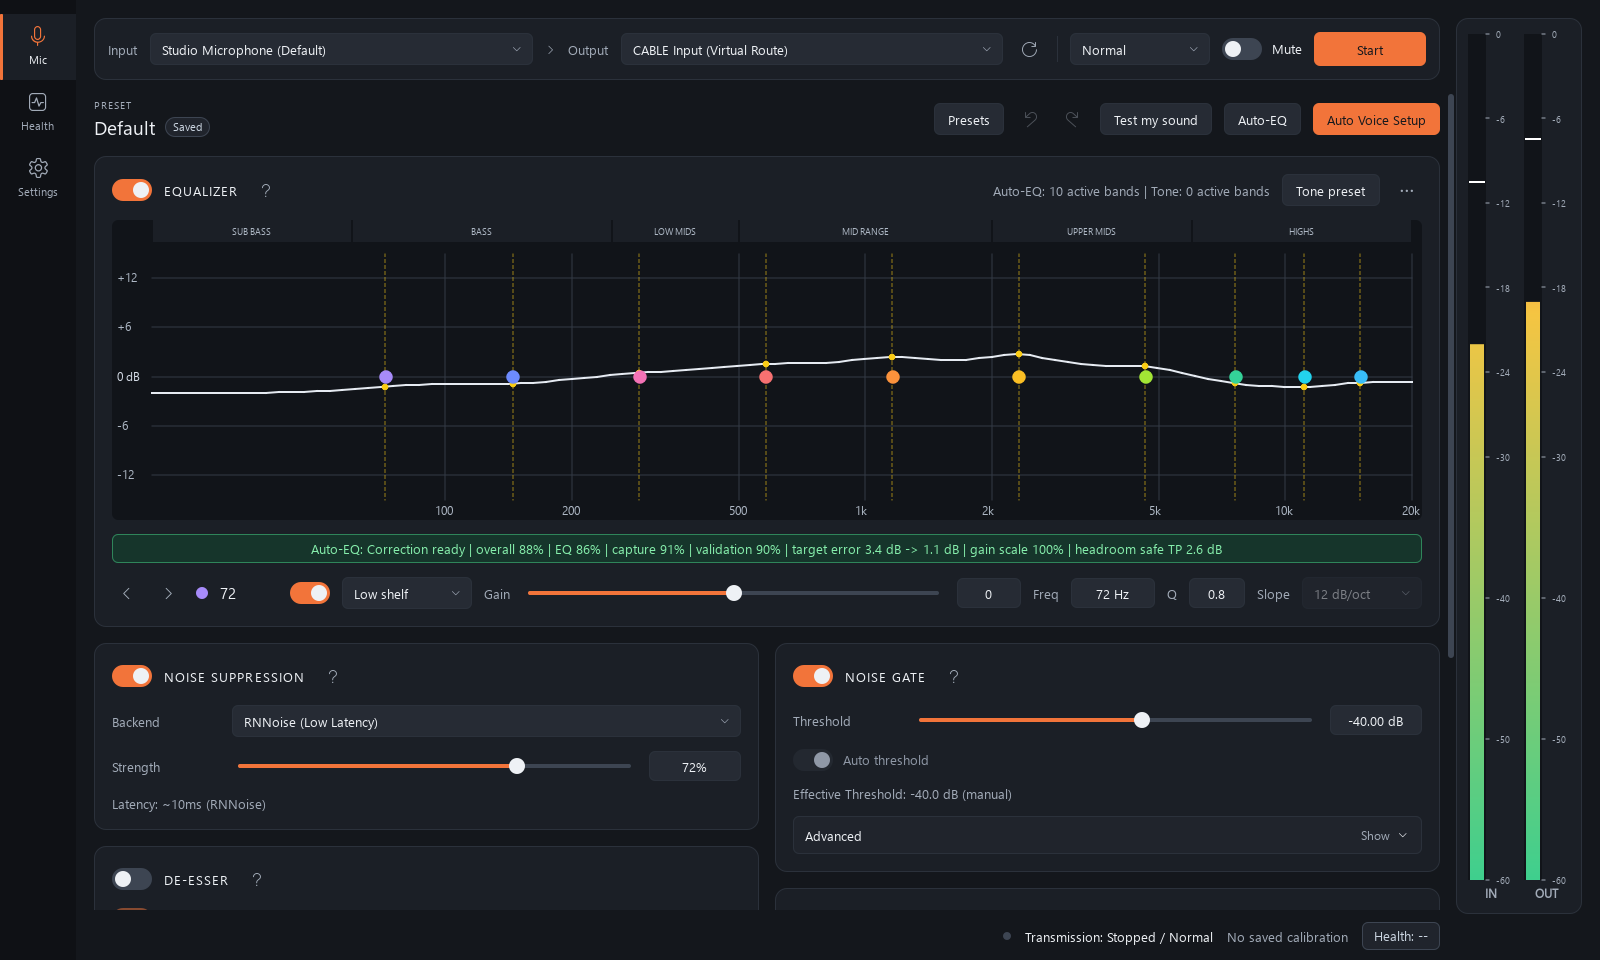
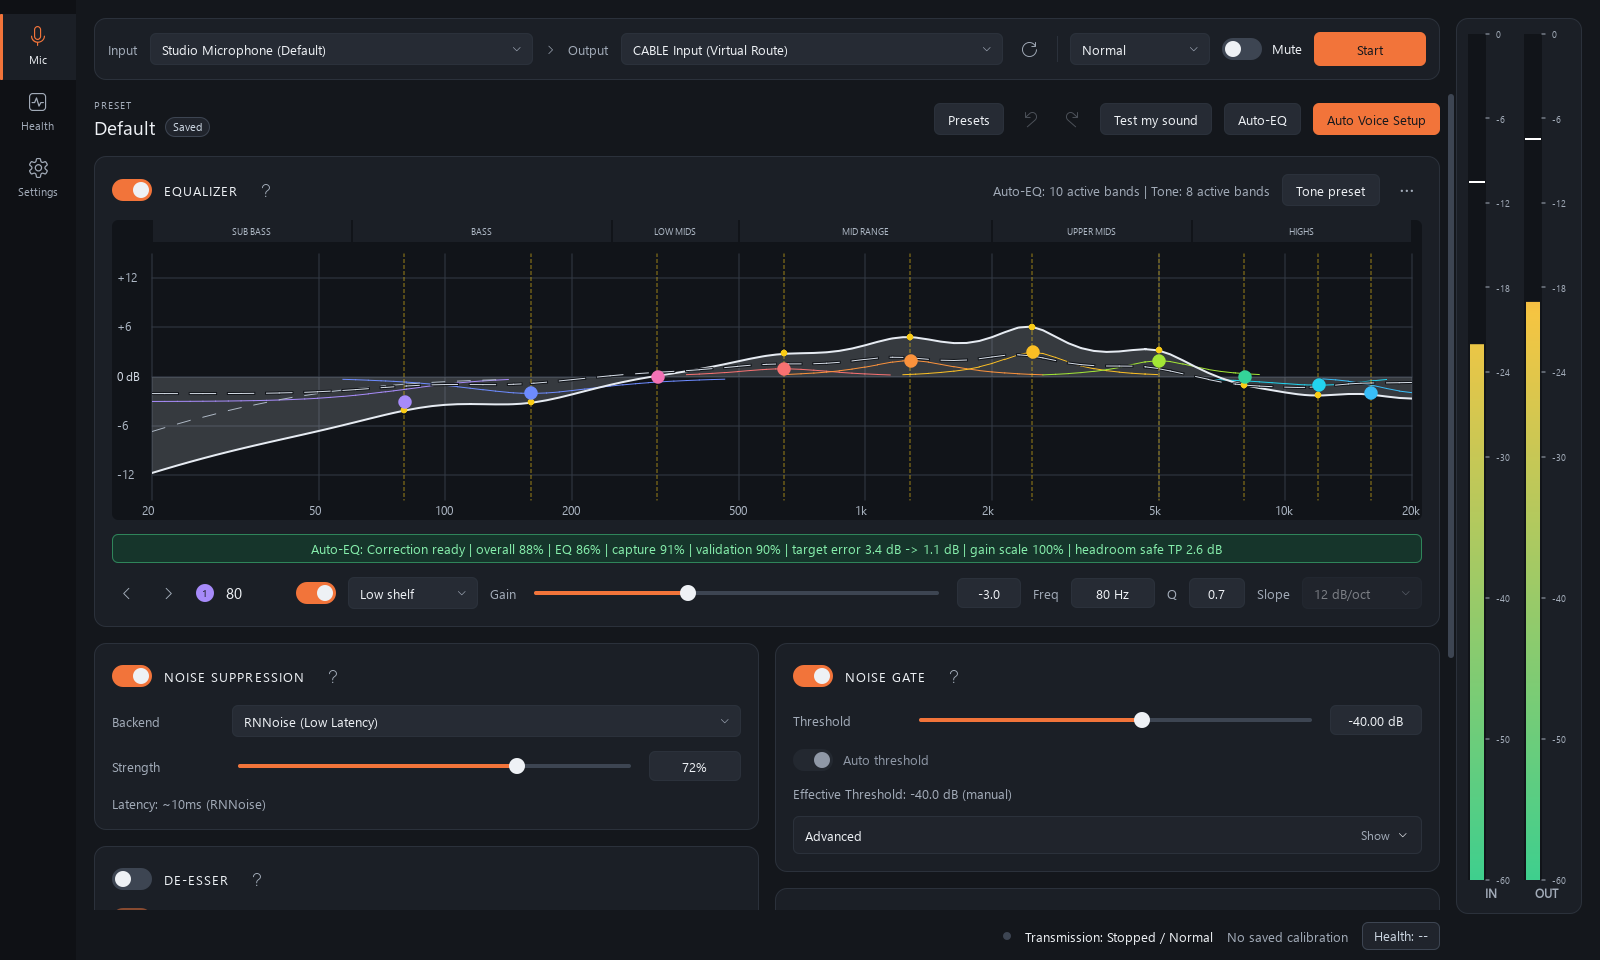
docs: record two rejected Voice Setup candidates and refresh the screenshots
A per-band reading of the verification tonal check failed one of four gates
on a third EARS cohort, and a per-user suppressor strength was rejected in
development. The README describes the new graph and the tone modes.

diff --git a/python/tools/capture_repository_screenshots.py b/python/tools/capture_repository_screenshots.py
@@ -22,7 +22,7 @@ from PySide6.QtCore import QByteArray, QObject
 from PySide6.QtGui import QFont, QFontDatabase, QImageWriter
 from PySide6.QtWidgets import QApplication, QWidget
 
-from mic_eq.config import AppConfig
+from mic_eq.config import BUILTIN_PRESETS, AppConfig
 from mic_eq.ui import main_window as main_window_module
 from mic_eq.ui.main_window import MainWindow
 from mic_eq.ui.theme import apply_application_theme, message_text_style
@@ -59,8 +59,9 @@ SCREENSHOTS: tuple[dict[str, str], ...] = (
         "view": "routing_eq",
         "alt": (
             "AudioForge Mic page routing a studio microphone to the CABLE Input "
-            "virtual cable, with the equalizer card showing an Auto-EQ correction, "
-            "the editor for the selected band, and level meters."
+            "virtual cable, with the equalizer card drawing each band's curve, the "
+            "Auto-EQ correction, the input filter and their total, the editor for "
+            "the selected band, and level meters."
         ),
     },
     {
@@ -92,6 +93,7 @@ def _source_hashes() -> dict[str, str]:
         "python/mic_eq/ui/shell_specs.py",
         "python/mic_eq/ui/qml/Main.qml",
         "python/mic_eq/ui/eq_panel.py",
+        "python/mic_eq/ui/eq_graph.py",
         "python/mic_eq/ui/eq_curve.py",
         "python/mic_eq/ui/voice_setup_dialog.py",
     )
@@ -159,6 +161,8 @@ def _prepare_main_window() -> MainWindow:
     window.output_choice.setCurrentIndex(0)
     _select_data(window.input_channel_mode_choice, "average")
     _select_data(window.input_cleanup_mode_choice, "gentle")
+    # The graph reads the cleanup mode from the processor on a timer.
+    window.eq_presentation.sync_input_conditioning()
     window.noise_suppression_state.set_settings({"model": "rnnoise", "enabled": True, "strength": 0.72})
     window.eq_state.apply_auto_eq_results(
         [
@@ -174,6 +178,9 @@ def _prepare_main_window() -> MainWindow:
             (15100.0, -0.6, 0.8),
         ]
     )
+    # A tone on top, so the graph shows both layers: the Auto-EQ correction and
+    # the bands the user edits. Typed bands keep the preset marked as saved.
+    window.eq_state.apply_typed_bands(BUILTIN_PRESETS["voice"].eq.bands)
     window.eq_state.set_auto_eq_diagnostics(
         {
             "analysis_confidence": 0.88,
@@ -246,6 +253,7 @@ def _prepare_voice_setup(parent: MainWindow) -> VoiceSetupDialog:
                 "capture_confidence": 0.94,
                 "recommendation_uncertainty": 0.08,
                 "gate_mode_label": "VAD assisted",
+                "apply_recommended": True,
             },
             "eq_settings": {
                 **parent.eq_state.get_settings(),
@@ -322,6 +330,9 @@ def capture_screenshots(output_dir: Path, report_path: Path) -> dict[str, Any]:
                 }
             )
 
+        # The review lists the EQ change the voice setup would make; it is
+        # shown against the Auto-EQ layer alone.
+        window.eq_state.reset_tone()
         dialog = _prepare_voice_setup(window)
         dialog.show()
         app.processEvents()

diff --git a/evaluation/README.md b/evaluation/README.md
@@ -27,6 +27,8 @@ or a CI artifact).
 | Compressor | VAD/reliability-driven automatic makeup; all six real-speech gates and the −30 dB aliasing gate (worst −48.2 dB) pass. Calibration searches threshold only; the expanded search failed held-out qualification and stays disabled. | `auto-makeup-real-speech-2026-09-report.json`, `dynamics-aliasing-2026-09-report.json`, `compressor-expanded-search-2026-09-report.json`, `compressor-control-report.json`, `compressor-search-report.json` |
 | Voice Setup loudness | When a proposal's peaks leave less headroom than the final check requires, lower its loudness target by whole decibels until it passes; leave it as released when no allowed loudness does. Of 30 held-out simulated users 24 get a proposal to score: 16 pass the check against 13 as released, and the other 8 fail at every allowed loudness. Where the limiter is enabled, makeup is automatic and the voice is not too hot for it, the final check and verification let the limiter take up to 3 dB off the loudest peaks, so the target is lowered only as far as that requires. On 48 simulated EARS users (34 scored, from 21 of 24 speakers; the rest get no Auto-EQ settings), against the loudness fit alone, passing proposals rise from 24 to 31 (21 as released), recommended ones from 9 to 16 and verification accepts from 23 to 24 (22 as released), measured with the bypassed tonal check of the next row (15 to 16 with the earlier check); no ESTOI fell and the largest limiter gain reduction among passing proposals is 5.62 dB against the app's 6 dB warning. All seven predefined gates pass. A broader allowance applied to every proposal was rejected earlier: its rule failed on a too-hot input that it recommended and whose next take drove the limiter 7 dB. | `voice-setup-loudness-fit-2026-10-report.json`; `voice-setup-limiter-allowance-narrow-2026-10-report.json`; the rejected broader candidate and its results stay under ignored `models/evaluation-details/voice-setup-limiter-allowance-2026-10/` |
 | Voice Setup verification | Compute the tonal check with the noise suppressor bypassed; keep the 1.0 RNNoise default; advise when noise suppression is dulling consonants, which never changes a verification result. The tonal check ("target error") compares the voice's median spectrum before any processing with the one after the whole chain, so the noise suppressor trips it: on 48 simulated EARS users at four suppressor settings (34 scored each), it rolled back 31 of the 96 RNNoise 1.0, DeepFilterNet and DeepFilterNet LL pairs that pass once the suppressor is bypassed. When the proposal's suppressor is on, the check now reads a second render of the same recordings through the same chain with only the suppressor off; every other finding still comes from the real render. On 48 users of a second EARS cohort (36 scored, from 21 of 24 speakers; 108 pairs over RNNoise 1.0, DeepFilterNet 1.0 and DeepFilterNet LL 1.0), target-error rollbacks fall from 36 to 0; a 9 dB wrong EQ at 3 kHz is reported for 105 of 108 pairs (90 % required) and a 12 dB one for 108 of 108 (97 % required); no pair the released check accepts is rolled back; no other finding or advisory moved. All four predefined gates pass; the two extra renders add 2.2 s (31 %) to a verification. On the first cohort's 34 scored users at RNNoise 1.0 it rolls back 2 for target error instead of 16, but it is stricter than the released check for one user the released check accepts (test 0, p024); the second cohort's gate saw no such pair. The first design, measuring the check against the suppressor's own output, removed all 31 false alarms and was never stricter, but agreed with the tone stages within 0.75 dB for 93.1 % of pairs (95 % required) and caught a 9 dB wrong EQ at 3 kHz for 93.75 % (95 % required): rejected on the first cohort, which is why this second design was judged on new speakers. The advisory for the suppressor dulling sibilants fired for 8 of 8 dulled pairs and 1 of 113 intact ones and changed no decision; its rule made it conditional on the first design, and it was adopted on its own under the owner's exception of 2026-10-13: its own gates passed and the condition was waived. RNNoise default strength 0.7 against 1.0 left 0 of 34 users losing more than 6 dB of sibilant level (10 of 34 at 1.0) and raised median ESTOI by 0.06, but 25 of 28 users (89.3 %, 90 % required) kept at least 4 dB of deep-pause reduction and one more user ended in rollback or gave up (10 against 9); its median cost was a 9.3 dB higher deep-pause level: rejected. Known limit, unchanged: the tonal check is nearly blind to errors below 1 kHz; a 6 dB cut at 200 Hz is not reported by either check. | `voice-setup-verification-tonal-check-2026-10-report.json`; ignored `models/evaluation-details/voice-setup-tonal-check-followup-2026-10/`, `.../voice-setup-verification-fix-2026-10/` (first design, advisory, default strength) and `.../voice-setup-verification-target-error-2026-10/` (investigation) |
+| Voice Setup verification, tonal check by band | Add a second reading of the verification tonal check that weighs every third-octave band alike (the shipped margin of 1.0 dB; it can only add `target_error` rollbacks): rejected on gate L2, the shipped check stays. The tonal check ("target error") takes the RMS error over 1018 linear bins of 80 to 12000 Hz, so the 79 bins below 1 kHz carry under 8 % of it: a 9 dB bell adds 1.0 dB of RMS at 215 Hz and 3.5 dB at 2.7 kHz, and the shipped check hardly reports 9 dB errors at the lowest correction bands (3 or fewer of 93 pairs in the study below). On 12 VoiceBank development users the second reading added no rollback and reported 9 dB errors there for 58 to 83 % of users and 12 dB errors for 92 to 100 %. On the third EARS cohort (24 speakers no study had used, 48 users, RNNoise 1.0, DeepFilterNet 1.0 and DeepFilterNet LL 1.0; 93 verified pairs from 31 users and 22 speakers) the predefined gates L1, L3 and L4 passed (0 extra rollbacks of 93 against a limit of 3 %; 0 of the 15 wrong EQs the shipped check reports lost; nothing else moved in 93 pairs) and L2 failed: errors of 9 dB at the correction bands nearest 100 and 200 Hz were reported for 61 to 75 % of pairs (50 % required), errors of 12 dB for 74 to 81 % (85 % required, 80 of 93 pairs; the cells reached 75, 69, 75 and 75). The shipped check reported 0 to 5 of them. After the judgement: the 18 pairs missed in three of the four 12 dB cells are the 18 verifications that ended in a delivery-mismatch retry, where neither tonal reading runs; among the other 75 pairs the second reading reported 100 % (92 % for -12 dB at 100 Hz), but the rule counted retries as verified, so no candidate could pass L2 here and the verdict stands as fixed. Errors of 6 dB at low frequencies stay mostly unreported (second reading 3 to 16 of 93 per cell, first pass, shipped 0 to 3). The proposals the shipped check accepts came closer to the margin than in development (headroom 0.18 dB for the per-bin reading and 0.34 dB for the band reading, against 0.82 and 0.97 dB), with no rollback. Known limit unchanged: a 6 dB cut at 200 Hz is not reliably reported by either check. This third cohort is used up for verification questions. | Ignored `models/evaluation-details/voice-setup-tonal-check-by-band-2026-10/` (rule file copied byte for byte, frozen files and hashes, rows, `report-bands.json`, `judgement.txt`, development material); the rule in `tonal-check-by-band-rules-final.md` (SHA-256 `318e0c2f...`). No tracked report: the study failed. |
+| Voice Setup suppressor strength (per user) | Rejected in development; no cohort was run. A rule that lowers RNNoise to the highest of 0.85 and 0.7 at which the consonant-dulling measure of verification falls under 6 dB cannot work from one take: on 12 VoiceBank development users the measure of the 10 s setup take correlates at r = +0.14 with the loss on a held-out take of the same user (error sd 4.2 dB; the verification take r = +0.72, sd 2.5 dB; a user's loss ranges from about 0 to 17 dB between takes). At 6 dB it changes 4 of 12 users and leaves 5 of 12 losing more than 6 dB of sibilant level on the held-out take (8 of 12 at a fixed 1.0); at 3 dB it changes 10 of 12, which is a global default under another name. A fixed 0.7 gives 0 of 12 users losing more than 6 dB, ESTOI never lower (median +0.037) and 10 of 10 users with a deep pause keeping at least 4 dB of pause reduction on these users; the EARS failure of the global 0.7 (three users under 4 dB) is not among them. Development only: VoiceBank, simulated rooms, no microphone captures. | Ignored `models/evaluation-details/voice-setup-suppressor-strength-2026-10/` (`README.md`, `development.md`, patch, rows). |
 | De-esser detector | Historical transient setup detector: all 96 generated corpus clips classified correctly, with no false positives. This scores detection, not the audio change or the new persistent-shape model. | `deesser-corpus-v1-report.json` (coefficient fit); `deesser-corpus-v1-2026-09-report.json` (re-run); current [audio follow-up](audio-followups-2026-10-report.json) |
 | De-esser on real speech | Add persistent notch-complement power concentration with a shared spectral-background reference, plus a signed-curvature setup model. The earlier study's no-change decision remains historical: its setup model enabled 65% of harsh, 62% of bright and 42% of ordinary simulated voices, while Auto reduced the sibilance band by only ~0.3–0.7 dB. The current change has separate benefit and preservation evidence. | Current [audio follow-up](audio-followups-2026-10-report.json); historical `deesser-real-speech-2026-10-report.json` |
 | Resampling | 128-tap Blackman product resampler. | `resampler-quality-report.json` |
@@ -165,6 +167,9 @@ for the Auto-EQ, makeup, DeepFilter and RNNoise evaluations),
 `build_vad_evaluation_corpus.py`. The last two stay because evaluators that
 remain read their corpora: `evaluate_product_tuning.py` the full-band set,
 `evaluate_compressor_search.py` and `evaluate_voice_regressions.py` the VAD set.
+
+The third EARS cohort for Voice Setup verification (`models/voice_setup_2026_10_cohort3`, 24 speakers) is used up for verification
+questions after the tonal-check-by-band study.
 
 ## Retired evaluators
 

diff --git a/README.md b/README.md
@@ -14,7 +14,7 @@ your audio never leaves your PC.
 
 **[Download for Windows](https://github.com/FueledByRedBull/audio-forge/releases/latest)** · [Set up in five steps](#set-up) · [What it does](#what-it-does) · [No sound?](#no-sound)
 
-![AudioForge Mic page routing a studio microphone to the CABLE Input virtual cable, with the equalizer card showing an Auto-EQ correction, the editor for the selected band, and level meters.](docs/images/audioforge-routing-eq.png)
+![AudioForge Mic page routing a studio microphone to the CABLE Input virtual cable, with the equalizer card drawing each band's curve, the Auto-EQ correction, the input filter and their total, the editor for the selected band, and level meters.](docs/images/audioforge-routing-eq.png)
 
 > [!IMPORTANT]
 > **To use AudioForge in Discord, OBS, Zoom, or Teams, you also need a virtual
@@ -139,12 +139,18 @@ location. See the
 - **Two EQ stages.** Calibration writes a correction stage. Your own edits go
   in a separate tone stage, so changing gains, templates, filter types, or
   slopes keeps the calibration. Older presets keep their combined EQ as the
-  tone stage.
+  tone stage. The graph draws each band as a thin curve, the correction stage
+  as a dashed line and the fixed input filter (the DC blocker and an 80 Hz
+  high-pass, or only the DC blocker when Gentle or Strong cleanup is on) as a
+  dotted line. The thick curve is what the signal really gets: the input
+  filter plus the EQ, or the input filter alone while the EQ is off. Adaptive
+  cleanup follows the signal, so it is not drawn.
 - **Your voice stays yours.** Speech alone can't reveal a microphone's exact
   frequency response, so automatic targets keep the recorded voice and apply
   bounded tonal preferences. Natural / No Added Tone stays neutral. Warm / Full
-  Voice adds low-mid body with restrained upper presence; **Adapt to my voice**
-  keeps it subtle and **Exact tone preset** uses the stronger catalog curve.
+  Voice adds low-mid body with restrained upper presence. **Subtle** aims for
+  small tone changes, never more than 2 dB from flat; **Full strength** aims for
+  the tone preset's whole curve, up to 5 dB.
 - **Suggestions have to earn a change.** Auto Voice Setup tries gate and noise
   suppression options before calibrating compression. It tests speech followed
   by noise without resetting the processing, so pause noise is checked too.
